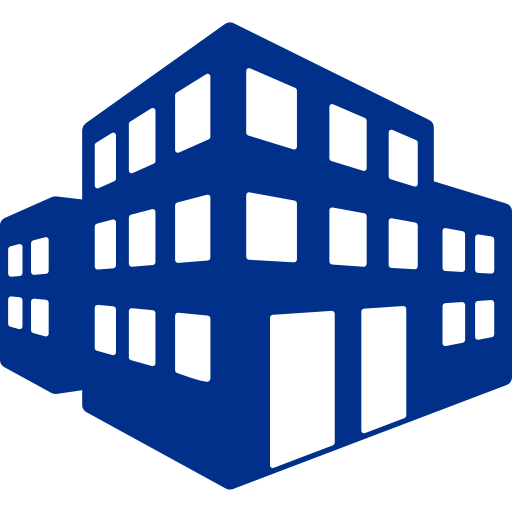
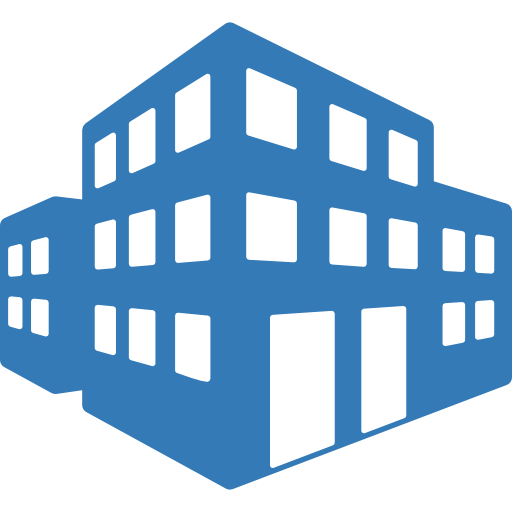
Las imagenes del index ahora tienen el azul 337ab7

diff --git a/views/inventarios/inventario_seccion_mat.html b/views/inventarios/inventario_seccion_mat.html
@@ -15,7 +15,6 @@
                 <thead>
                     <tr id="titulosListado">
                       <th class="camposTabla linksNombres">Nombre</th>
-                      <th class="camposTabla linksNombres">Tipo</th>
             
                       <th class="camposTabla linksNombres">Marca</th>
                       <th class="camposTabla linksNombres">Modelo</th>
@@ -32,7 +31,6 @@
                     <tr>
                       <td class="camposTabla"> <a href="{{=URL('detalles_mat', vars=dict(espacio=bm['sb_espacio'], nombreMat = bm['sb_nombre'], cat = '2'))}}">{{=bm['sb_nombre']}}</a></td>
 
-                      <td class="camposTabla">{{=bm['sb_clasificacion']}}</td>
                       <td class="camposTabla">{{=bm['sb_marca']}}</td>
                       <td class="camposTabla">{{=bm['sb_modelo']}}</td>
       
@@ -48,9 +46,7 @@
         
                 <tfoot id="collapseFiltros">
                     <tr>
-                      <th class="camposTabla linksNombres">Nombre</th>
-                      <th class="camposTabla linksNombres">Tipo</th>
-            
+                      <th class="camposTabla linksNombres">Nombre</th>            
                       <th class="camposTabla linksNombres">Marca</th>
                       <th class="camposTabla linksNombres">Modelo</th>
                       <th class="camposTabla linksNombres">Descripción</th>

diff --git a/views/inventarios/inventario_laboratorio_mat.html b/views/inventarios/inventario_laboratorio_mat.html
@@ -18,7 +18,6 @@
                 <thead>
                     <tr id="titulosListado">
                       <th class="camposTabla linksNombres">Nombre</th>
-                      <th class="camposTabla linksNombres">Tipo</th>
             
                       <th class="camposTabla linksNombres">Marca</th>
                       <th class="camposTabla linksNombres">Modelo</th>
@@ -36,7 +35,6 @@
                         <!-- *!* Colocar anchor a la entrada del  bm en el catalogo de bm -->
                         <td class="camposTabla"> <a href="{{=URL('detalles_mat', vars=dict(espacio=bm['sb_espacio'], nombreMat = bm['sb_nombre'], cat = '2'))}}">{{=bm['sb_nombre']}}</a></td>
                         
-                        <td class="camposTabla">{{=bm['sb_clasificacion']}}</td>
                         <td class="camposTabla">{{=bm['sb_marca']}}</td>
                         <td class="camposTabla">{{=bm['sb_modelo']}}</td>
         
@@ -53,7 +51,6 @@
                 <tfoot id="collapseFiltros">
                     <tr>
                       <th class="camposTabla linksNombres">Nombre</th>
-                      <th class="camposTabla linksNombres">Tipo</th>
             
                       <th class="camposTabla linksNombres">Marca</th>
                       <th class="camposTabla linksNombres">Modelo</th>

diff --git a/views/inventarios/inventario_espacio_mat.html b/views/inventarios/inventario_espacio_mat.html
@@ -37,7 +37,6 @@
         <thead>
             <tr id="titulosListado">
                 <th class="camposTabla linksNombres">Nombre</th>
-                <th class="camposTabla linksNombres">Tipo</th>
                 <th class="camposTabla linksNombres">Marca</th>
                 <th class="camposTabla linksNombres">Modelo</th>
                 <th class="camposTabla linksNombres">Descripción</th>
@@ -53,7 +52,6 @@
           {{for bm in inventario:}}
             <tr>
                 <td class="camposTabla"> <a href="{{=URL('detalles_mat', vars=dict(espacio=bm['sb_espacio'], nombreMat = bm['sb_nombre'], cat = '2'))}}">{{=bm['sb_nombre']}}</a></td>
-                <td class="camposTabla">{{=bm['sb_clasificacion']}}</td>
                 <td class="camposTabla">{{=bm['sb_marca']}}</td>
                 <td class="camposTabla">{{=bm['sb_modelo']}}</td>
 
@@ -69,8 +67,6 @@
 
         <tfoot id="collapseFiltros">
           <th class="camposTabla linksNombres">Nombre</th>
-          <th class="camposTabla linksNombres">Tipo</th>
-
           <th class="camposTabla linksNombres">Marca</th>
           <th class="camposTabla linksNombres">Modelo</th>
           <th class="camposTabla linksNombres">Descripción</th>

diff --git a/views/layout.html b/views/layout.html
@@ -109,6 +109,7 @@
                 <li><a href="{{=URL('inventarios', 'index')}}">Página Principal</a></li>
                   <li><a href="{{=URL('inventarios', 'bienes_muebles')}}">Bienes Muebles</a></li>
                   <li><a href="{{=URL('inventarios', 'material_lab')}}">Material de laboratorio</a></li>
+                  <li><a href="{{=URL('inventarios', 'consumibles')}}">Consumibles</a></li>
                   <li><a href="{{=URL('inventarios', 'prestamos')}}">Préstamos</a></li>
                   <li><a href="{{=URL('inventarios', 'mantenimiento')}}">Mantenimiento</a></li>
                   <li><a href="{{=URL('inventarios', 'validaciones')}}">Validaciones</a></li>

diff --git a/views/inventarios/index.html b/views/inventarios/index.html
@@ -50,7 +50,7 @@
 
         <div class="col-sm-4 columnas">
           <a href="{{=URL('consumibles')}}">
-            <img class="iconos" src="{{=URL('static','inventarios/images/papel.png')}}">
+            <img class="iconos" src="{{=URL('static','inventarios/images/rollo-papel.png')}}">
             <div>
               <h4 class="opciones" style="">Consumibles<tag style="font-size: 20px; color: red;"></tag></h4>
             </div>
